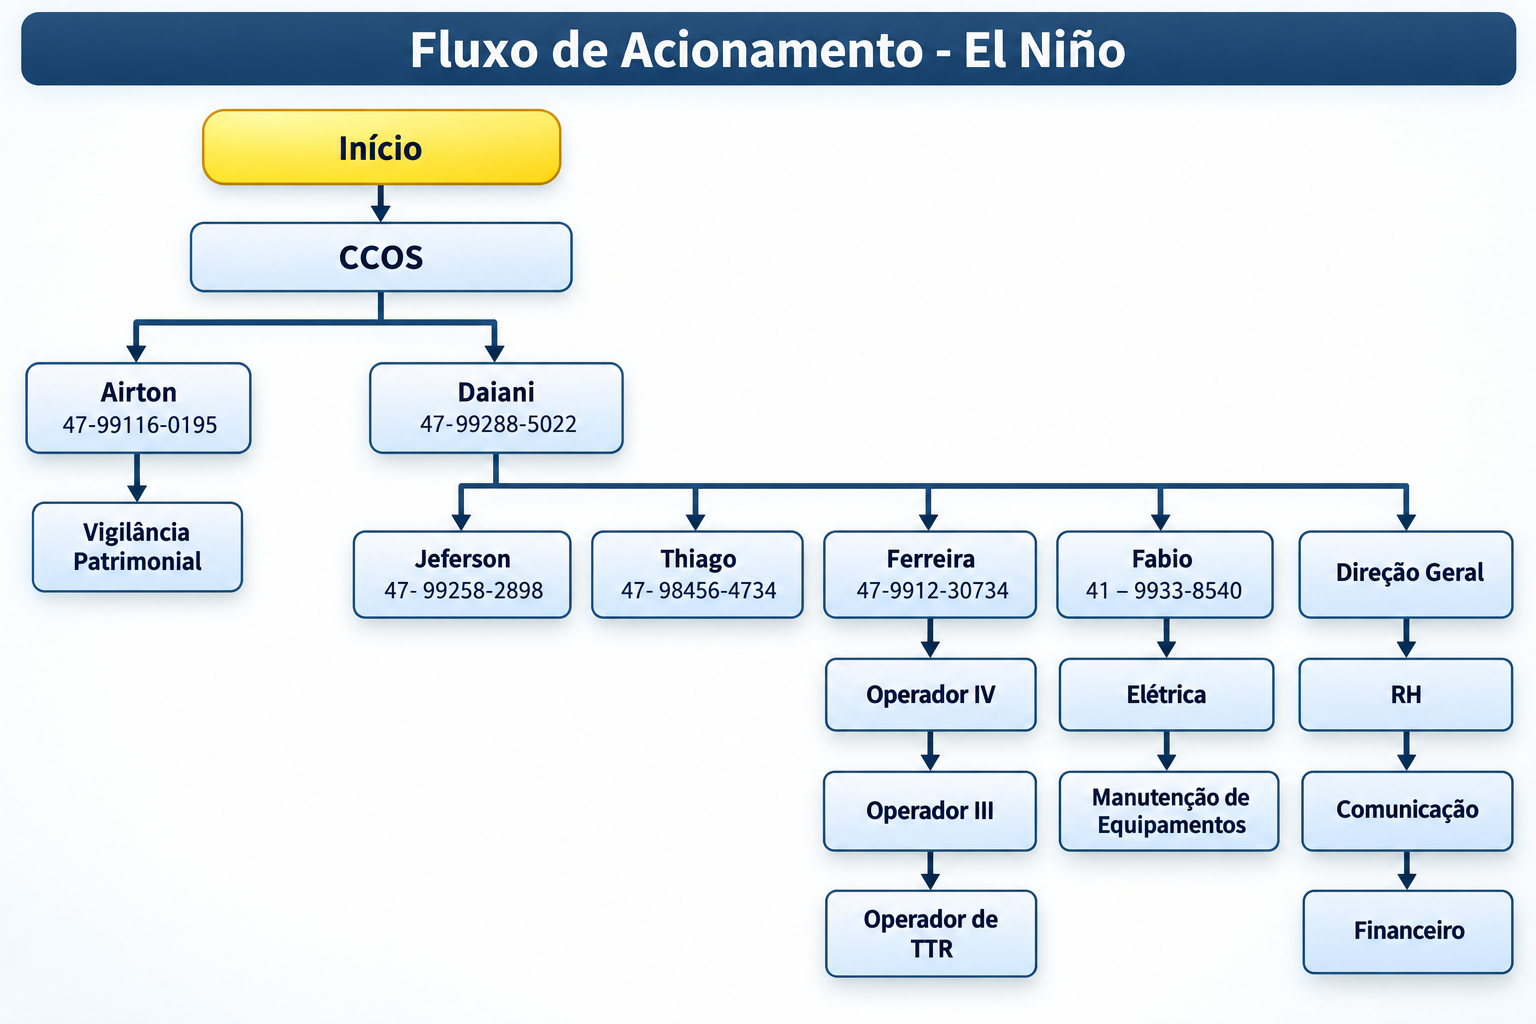
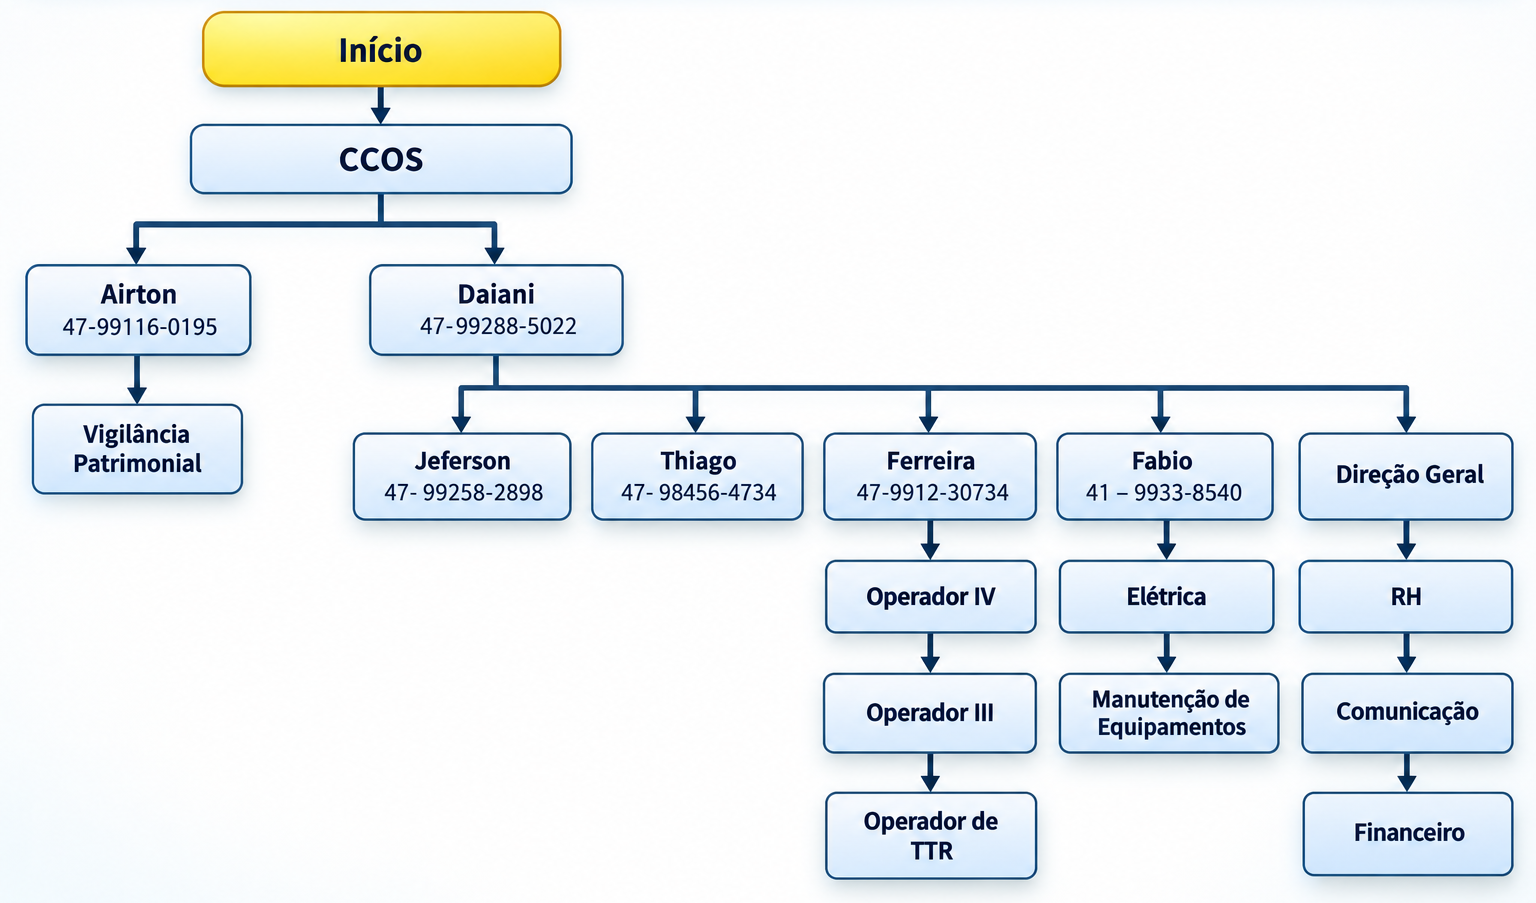
Atualiza mapas oficiais da Central de Planos

Changed region(s): [[0.0, 0.0, 1.0, 0.9922]]

diff --git a/src/components/DecisionMap.tsx b/src/components/DecisionMap.tsx
@@ -1,11 +1,8 @@
 import { useId, useRef, useState } from 'react';
 
-export const decisionMapUrl = `${import.meta.env.BASE_URL}assets/mapa-decisoes-terminal.png`;
+export const decisionMapUrl = `${import.meta.env.BASE_URL}assets/operacoes-posicionamento-equipamentos.jpg`;
 
 export function DecisionMap({ url = decisionMapUrl, title = 'Mapa de Decisões do Terminal', label = 'Mapa de Decisões', description }: { url?: string; title?: string; label?: string; description?: string }) {
-  const [map, setMap] = useState('terminal');
-  const selectedUrl = map === 'operacoes' ? `${import.meta.env.BASE_URL}assets/operacoes-posicionamento-equipamentos.jpg` : url;
-  const selectedTitle = map === 'operacoes' ? 'Posicionamento de equipamentos — Operações' : title;
   const titleId = useId();
   const dialog = useRef<HTMLDialogElement>(null);
   const trigger = useRef<HTMLButtonElement>(null);
@@ -13,18 +10,17 @@ export function DecisionMap({ url = decisionMapUrl, title = 'Mapa de Decisões d
   const [estado, setEstado] = useState<'carregando' | 'pronto' | 'erro'>('carregando');
   const [zoom, setZoom] = useState(100);
   return <div className="decision-map">
-    <button ref={trigger} type="button" onClick={() => { setMap('terminal'); setEstado('carregando'); setZoom(100); setAberto(true); dialog.current?.showModal(); }}>{label}</button>
+    <button ref={trigger} type="button" onClick={() => { setEstado('carregando'); setZoom(100); setAberto(true); dialog.current?.showModal(); }}>{label}</button>
     <dialog ref={dialog} className="decision-dialog" aria-labelledby={titleId} onClose={() => { setAberto(false); trigger.current?.focus(); }}>
       <div className="decision-toolbar"><h2 id={titleId}>{title}</h2><button type="button" autoFocus onClick={() => dialog.current?.close()}>Fechar mapa</button></div>
       {description && <p>{description}</p>}
       {aberto && <>
-        <label>Mapa em consulta <select style={{maxWidth: '100%'}} value={map} onChange={e => { setMap(e.target.value); setZoom(100); setEstado('carregando'); }}><option value="terminal">Mapa de Decisões do Terminal</option><option value="operacoes">Posicionamento de equipamentos — Operações</option></select></label>
-        {map === 'operacoes' && <p>Responsável: Diego Rodrigo Juliani · Atualização: 26/10/2026</p>}
+        <p>Responsável: Diego Rodrigo Juliani · Atualização: 26/10/2026</p>
         <div className="decision-toolbar"><button type="button" disabled={estado !== 'pronto' || zoom <= 100} onClick={() => setZoom(z => z - 50)}>Diminuir zoom</button><output aria-label="Zoom">{zoom}%</output><button type="button" disabled={estado !== 'pronto' || zoom >= 400} onClick={() => setZoom(z => z + 50)}>Ampliar zoom</button><button type="button" disabled={estado !== 'pronto'} onClick={() => setZoom(100)}>Ajustar à largura</button></div>
         {estado === 'carregando' && <p role="status">Carregando mapa…</p>}
         {estado === 'erro' && <p role="status">{title} ainda não disponibilizado ou temporariamente indisponível. Os Planos de Ação permanecem disponíveis. Feche e abra novamente para tentar carregar.</p>}
         <div className="decision-viewport" tabIndex={0} aria-label="Imagem do mapa; use as barras de rolagem após ampliar">
-          {estado !== 'erro' && <img key={selectedUrl} src={selectedUrl} alt={selectedTitle} style={{ width: `${zoom}%`, visibility: estado === 'pronto' ? 'visible' : 'hidden' }} onLoad={() => setEstado('pronto')} onError={() => setEstado('erro')} />}
+          {estado !== 'erro' && <img key={url} src={url} alt={title} style={{ width: `${zoom}%`, visibility: estado === 'pronto' ? 'visible' : 'hidden' }} onLoad={() => setEstado('pronto')} onError={() => setEstado('erro')} />}
         </div>
       </>}
     </dialog>

diff --git a/tests/operations-plan.test.tsx b/tests/operations-plan.test.tsx
@@ -30,17 +30,17 @@ it('cadastra seis ações nas duas categorias com metadados oficiais',()=>{
 it('mantém JPEG original byte a byte, sem recompressão',()=>{
[1 lines of base64/hex data omitted]
 });
-it('abre mapa da área com zoom e foco, sem substituir mapa geral',()=>{
+it('abre diretamente o mapa oficial no botão principal, com zoom e foco',()=>{
   view();
   const trigger=screen.getByRole('button',{name:'Mapa de Decisões'});
   expect(screen.getAllByRole('button',{name:/Mapa de Decisões/})).toHaveLength(1);
   expect(screen.queryByText('← Planos de Ação por Área')).toBeNull();
   expect(screen.getByRole('link',{name:'Planos de Ação por Área'})).toBeTruthy();
   fireEvent.click(trigger);
-  fireEvent.change(screen.getByRole('combobox',{name:'Mapa em consulta'}),{target:{value:'operacoes'}});
+  expect(screen.queryByRole('combobox', { name: 'Mapa em consulta' })).toBeNull();
   const dialog=screen.getByRole('dialog',{name:'Mapa de Decisões do Terminal'});
   expect(within(dialog).getByText(/Diego Rodrigo Juliani.*26\/10\/2026/)).toBeTruthy();
-  const img=within(dialog).getByAltText('Posicionamento de equipamentos — Operações') as HTMLImageElement;
+  const img=within(dialog).getByAltText('Mapa de Decisões do Terminal') as HTMLImageElement;
   expect(img.getAttribute('src')).toContain('assets/operacoes-posicionamento-equipamentos.jpg');
   fireEvent.load(img);
   fireEvent.click(within(dialog).getByRole('button',{name:'Ampliar zoom'}));
@@ -52,8 +52,12 @@ it('abre mapa da área com zoom e foco, sem substituir mapa geral',()=>{
 });
 it('falha da imagem mantém plano acessível sem inventar conteúdo',()=>{
   view(); fireEvent.click(screen.getByRole('button',{name:'Mapa de Decisões'}));
-  fireEvent.change(screen.getByRole('combobox',{name:'Mapa em consulta'}),{target:{value:'operacoes'}});
-  fireEvent.error(screen.getByAltText('Posicionamento de equipamentos — Operações'));
+  expect(screen.queryByRole('combobox', { name: 'Mapa em consulta' })).toBeNull();
+  fireEvent.error(screen.getByAltText('Mapa de Decisões do Terminal'));
   expect(screen.getByText(/ainda não disponibilizado ou temporariamente indisponível/)).toBeTruthy();
   expect(document.querySelectorAll('tr.area-action')).toHaveLength(3);
+});
+
+it('preserva a imagem oficial atualizada da hierarquia sem recompressão', () => {
[1 lines of base64/hex data omitted]
 });
